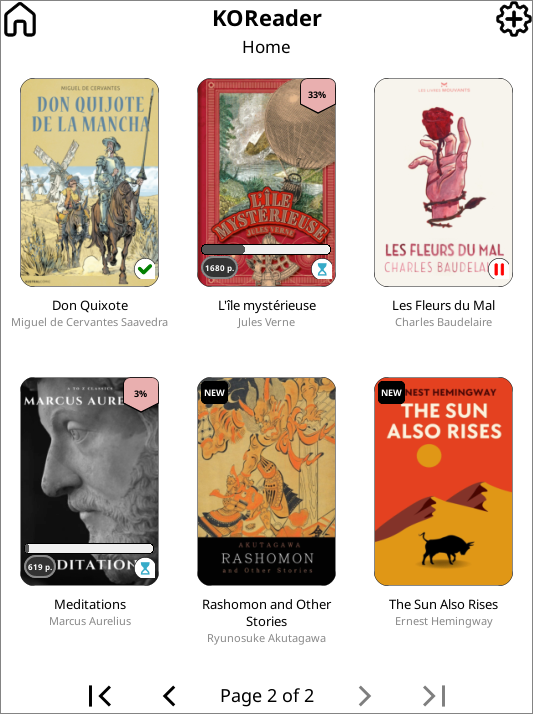
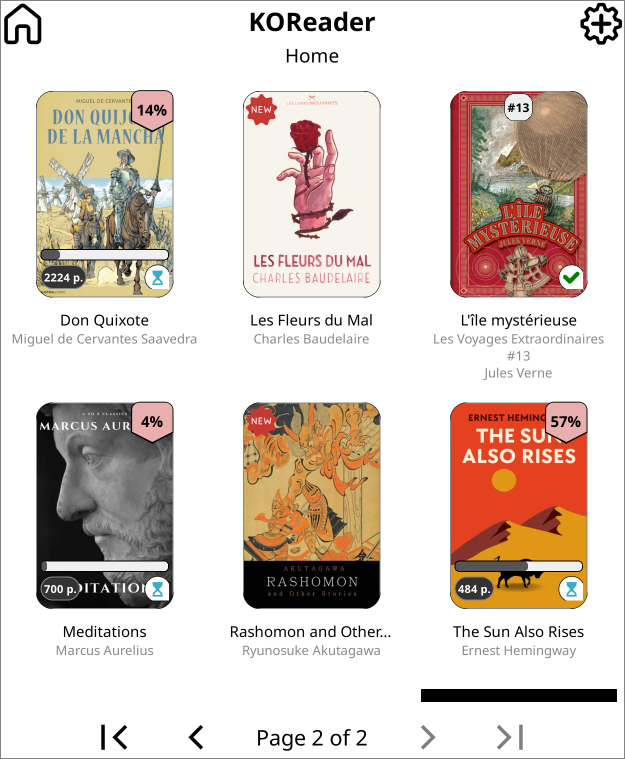
Correct Bugs

diff --git a/README.md b/README.md
@@ -22,11 +22,17 @@ Consolidated patch that replaces the default mosaic cover appearance. Merges the
 
 #### Cover rendering
 
-Stretched covers with aspect ratio control . Set `fill = true` to ignore the ratio and fill the entire cell. Rounded corners are drawn via four SVG overlays . A thin border  frames every cover. Results are memoised in an cache (2000 entries) to avoid redundant rebuilds during scrolling.
+Stretched covers with aspect ratio control . Set `fill = true` to ignore the ratio and fill the entire cell. Rounded corners are drawn via four SVG overlays . A thin border  frames every cover. Results are memoised in an cache (2000 entries) to avoid redundant rebuilds during scrolling. 
+
+Sidecar cover images (image files (jpg/jpeg/png/webp/gif) sitting next to a book file with the same basename (e.g. `book.jpg` next to `book.epub`) ) are automatically used as the book's cover and hidden from the file listing.
 
 #### Folder covers
 
 Folders display a cover image sourced from `.cover.{jpg,jpeg,png,webp,gif}` inside the folder. If no `.cover` file exists, the first book with a cached cover is used instead. A capitalized folder name is rendered centered over the cover (toggleable via the settings menu). A file-count badge (rounded pill) appears in the bottom-right corner.
+
+#### Title strip
+
+The title strip below each cover shows the book title. When both `series` and `authors` metadata are present, the strip renders series info and author on two lines beneath the title. Folder title strips for series groups show the author name instead of a book count.
 
 #### Overlay badges
 
@@ -43,7 +49,7 @@ Folders display a cover image sourced from `.cover.{jpg,jpeg,png,webp,gif}` insi
 
 #### Automatic series grouping
 
-When enabled (toggle: "Group book series into folders" in file browser settings), books sharing the same `series` metadata field (`calibre:series` / `belongs-to-collection`) are collapsed into a virtual folder. Tapping a series folder opens a sub-view sorted by `series_index`. Series metadata is extracted in the background. If every book in a directory belongs to the same series, grouping is skipped. Single-book series are unwrapped back to regular entries.
+When enabled (toggle: "Group book series into folders" in file browser settings), books sharing the same `series` metadata field (`calibre:series` / `belongs-to-collection`) are collapsed into a virtual folder. Tapping a series folder opens a sub-view sorted by `series_index`. Series metadata is extracted in the background. If every book in a directory belongs to the same series, grouping is skipped. Series containing only one book are not grouped.
 
 <p align="center">
   <img src="README.assets/image-20260301201030363.png" alt="Series grouping screenshot">
@@ -144,13 +150,14 @@ All tunables are at the top of `2--visual-overhaul.lua`.
 
 | Variable | Default | Description |
 |----------|---------|-------------|
-| `font_size` | `0.95` | Relative font size (0 to 1) |
+| `font_size` | `10` | Font size in points (passed to Font:getFace) |
 | `text_color` | `COLOR_WHITE` | Badge text colour |
 | `border_thickness` | `2` | Border width (0 to 5) |
 | `border_corner_radius` | `12` | Corner radius (0 to 20) |
 | `border_color` | `COLOR_DARK_GRAY` | Border colour |
 | `background_color` | `COLOR_GRAY_3` | Badge background colour |
-| `move_from_border` | `8` | Inset distance from cover edge |
+| `inset_x` | `4` (scaled) | Horizontal inset from cover edge |
+| `inset_y` | `8` (scaled) | Vertical inset from cover edge |
 
 </details>
 
@@ -159,7 +166,7 @@ All tunables are at the top of `2--visual-overhaul.lua`.
 
 | Variable | Default | Description |
 |----------|---------|-------------|
-| `text_size` | `0.50` | Relative text size (0 to 1) |
+| `text_size` | `14` | Font size in points (passed to Font:getFace) |
 | `move_on_x` | `-15` | Horizontal offset (negative = left) |
 | `move_on_y` | `-1` | Vertical offset (negative = up) |
 | `badge_w` | `70` | Badge width in pixels |
@@ -204,15 +211,13 @@ All tunables are at the top of `2--visual-overhaul.lua`.
 |----------|---------|-------------|
 | `H` | `9` (scaled) | Bar height |
 | `RADIUS` | `3` (scaled) | Corner radius for rounded ends |
-| `INSET_X` | `6` (scaled) | Horizontal inset from inner cover edges |
-| `INSET_Y` | `12` (scaled) | Vertical inset from bottom inner edge |
-| `GAP_TO_ICON` | `0` (scaled) | Gap before the corner dogear icon |
+| `PERCENT_POS` | `77 / 100` | Vertical position as fraction of cover height |
 | `TRACK_COLOR` | `#F4F0EC` | Unfilled track colour |
 | `FILL_COLOR` | `#555555` | Progress fill colour |
 | `ABANDONED_COLOR` | `#C0C0C0` | Fill colour for abandoned/paused books |
 | `BORDER_W` | `0.5` (scaled) | Border width around track (0 to disable) |
 | `BORDER_COLOR` | `COLOR_BLACK` | Border colour |
-| `MIN_PERCENT` | `0.02` | Hide bar below this threshold (2%) |
+| `MIN_PERCENT` | `0.02` | Hide bar and reading dogear below this threshold (2%) |
 | `NEAR_COMPLETE_PERCENT` | `0.97` | Treat as complete above this (97%) |
 
 </details>
@@ -281,14 +286,18 @@ Copy `.env.example` to `.env` and set the three variables:
 | `KODEV` | Path to the `kodev` script | `/path/to/koreader/kodev` |
 | `LIBRARY` | Path to a test library of EPUB/PDF files | `/path/to/KOReader.patches/Library` |
 | `EMULATOR_PATCHES` | Path where the emulator symlink will be created (pointing back to this repo's `patches/`) | `/path/to/koreader-emulator/koreader/patches` |
+| `SIMULATE` | Device preset for the emulator screen size (default: `kobo-libra-2`) | `kobo-libra-2`, `kindle`, `custom` |
 
 ### Makefile targets
 
 | Target | Command | Description |
 |--------|---------|-------------|
 | `help` | `make` or `make help` | Show available targets |
-| `run` | `make run` | Symlink patches and run emulator in color |
-| `run-bw` | `make run-bw` | Symlink patches and run emulator in grayscale (Kobo e-ink simulation) |
-| `link-patches` | `make link-patches` | Create symlink at `EMULATOR_PATCHES` pointing to this repo's `patches/` |
+| `run` | `make run` | Symlink patches/icons and run emulator (`SIMULATE=<device>` to change screen) |
+| `run-bw` | `make run-bw` | Symlink patches/icons and run emulator in grayscale (`SIMULATE=<device>`) |
+| `link-patches` | `make link-patches` | Symlink emulator patches dir to this repo's `patches/` |
+| `link-icons` | `make link-icons` | Symlink emulator icons dir to this repo's `icons/` |
+| `devices` | `make devices` | List available device presets for `SIMULATE=` |
+| `reset` | `make reset` | Remove all KOReader state from the emulator |
 
-Both `KODEV` and `LIBRARY` must be set for `run` and `run-bw`. The grayscale target sets `EMULATE_BW_SCREEN=1` and `EMULATE_BB_TYPE=BB8` for true BW simulation.
+Both `KODEV` and `LIBRARY` must be set for `run` and `run-bw`. Set `SIMULATE=<device>` to change the emulator screen size (run `make devices` to see available presets). The grayscale target sets `EMULATE_BW_SCREEN=1` and `EMULATE_BB_TYPE=BB8` for true BW simulation.0
